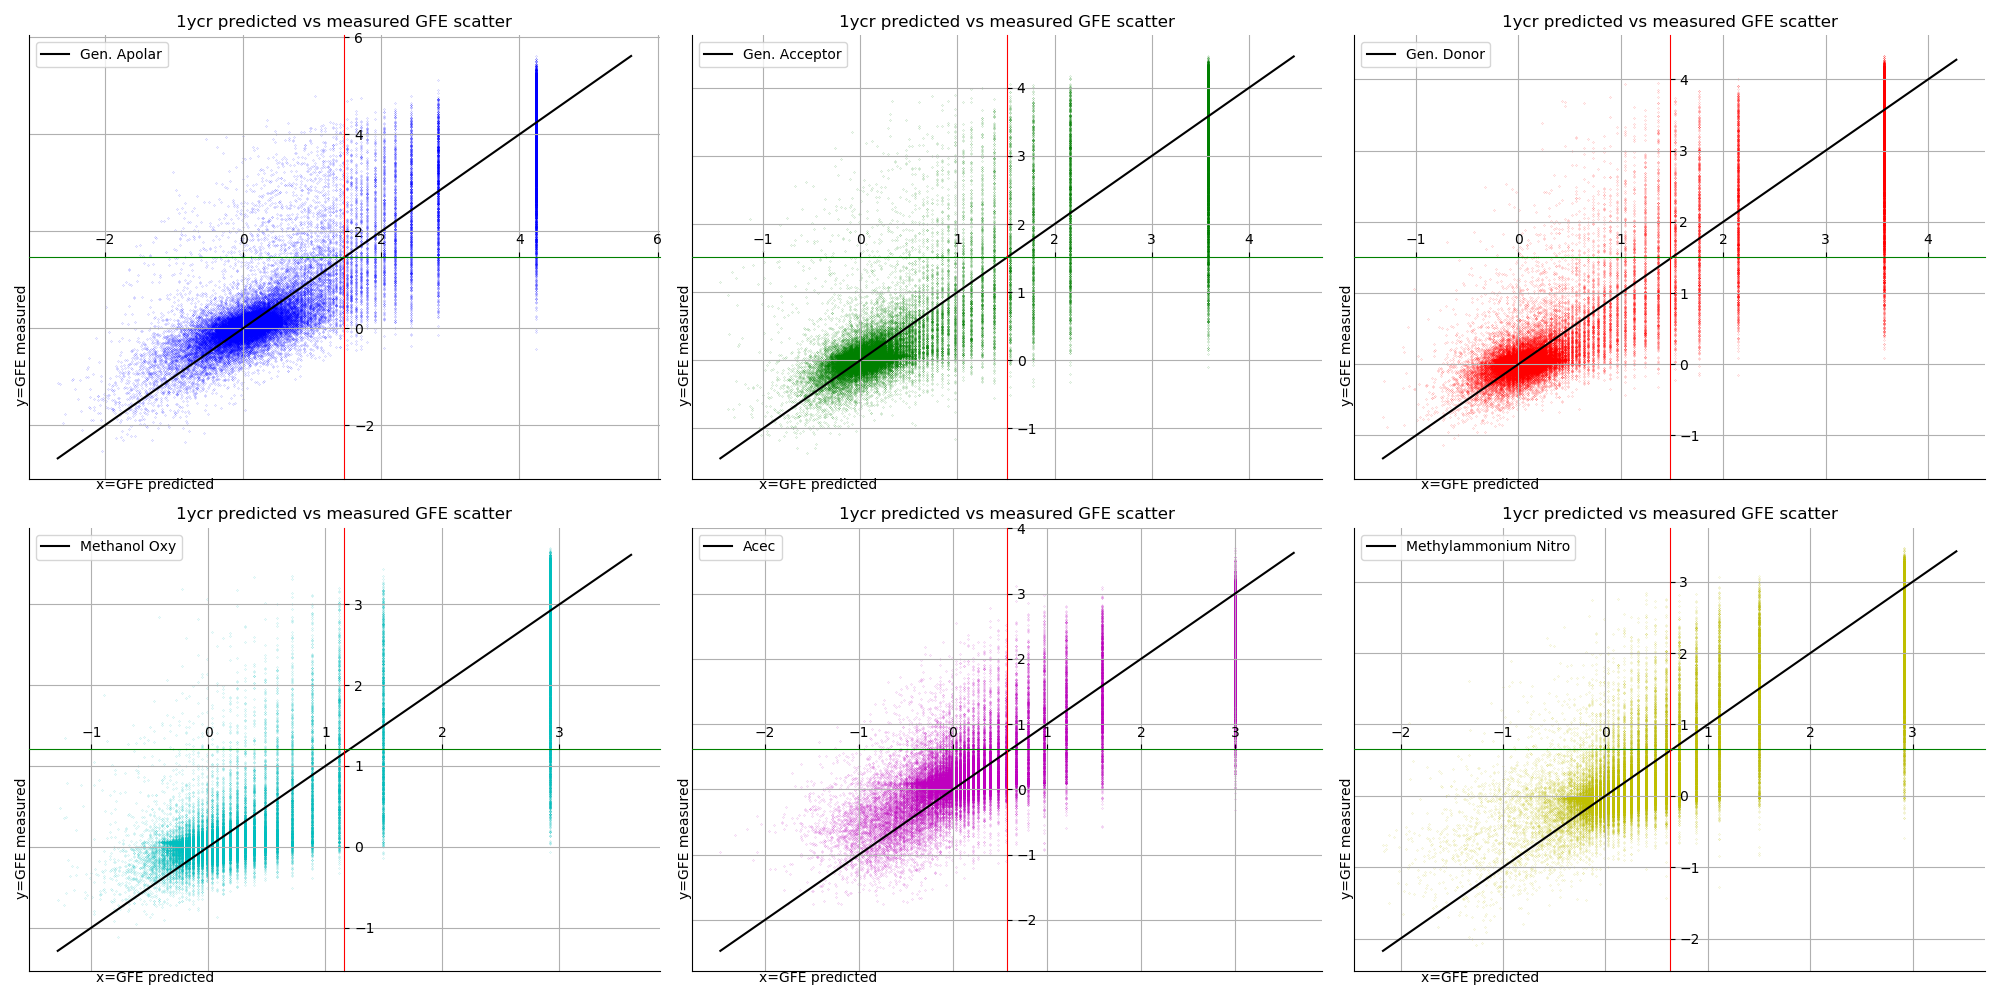
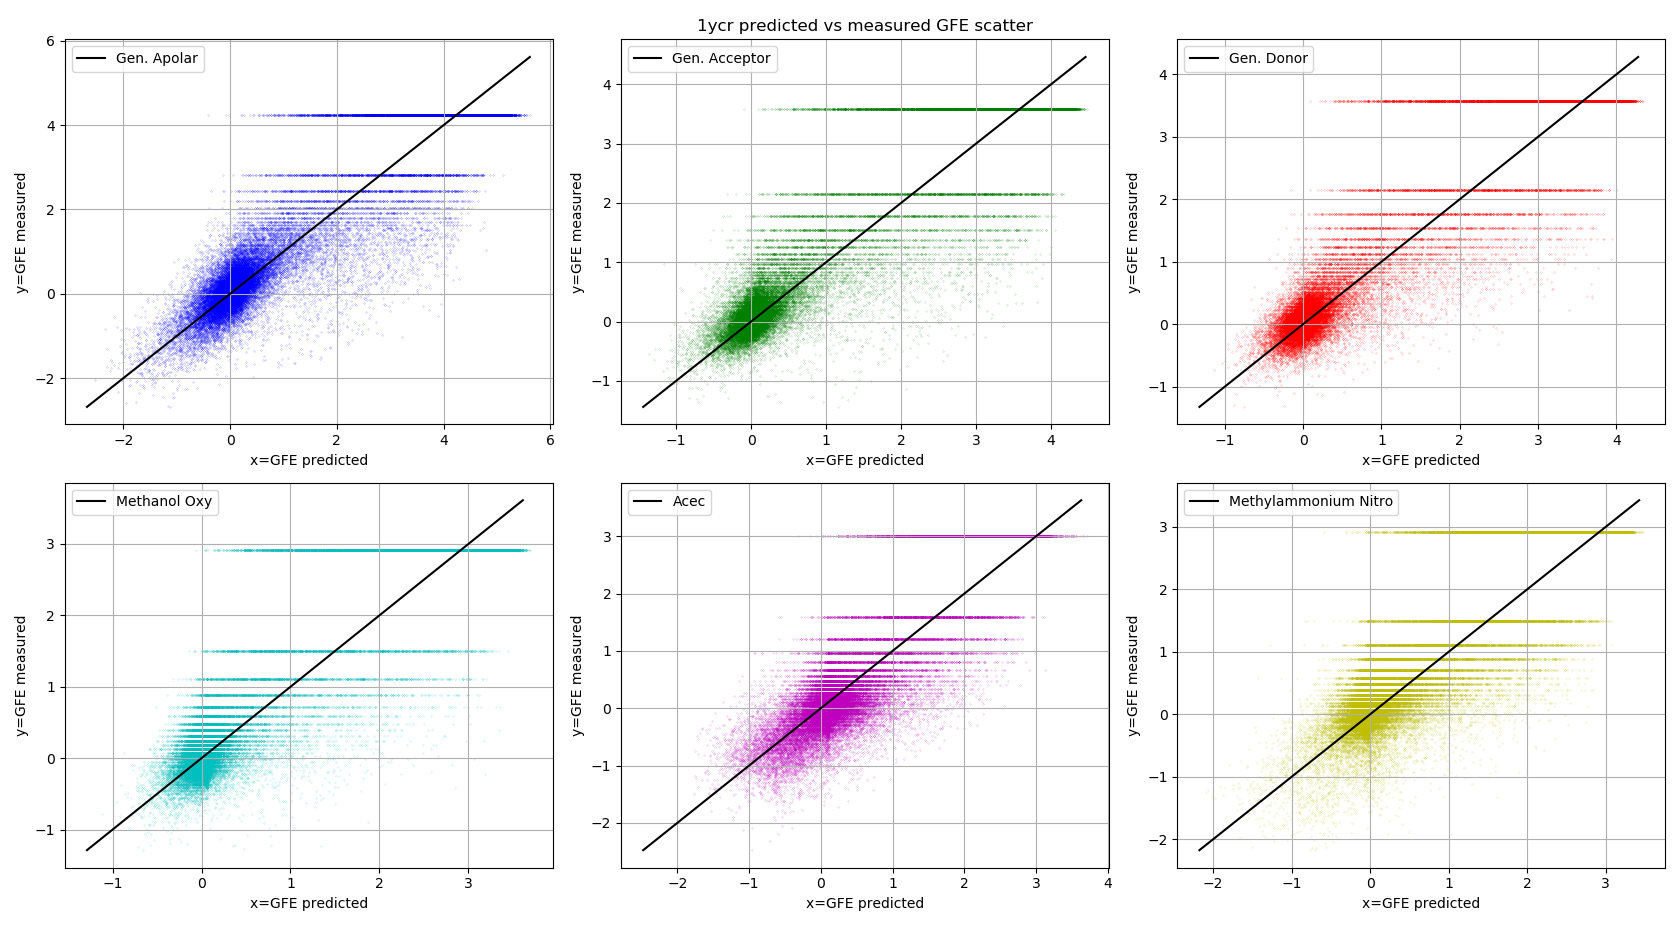
fixed scatter code and plots

diff --git a/visual/scatter.py b/visual/scatter.py
@@ -42,11 +42,14 @@ def scatter_plot(pdb_id):
 
     fig = plt.figure(figsize=(20,10))
     plot_fn= pdb_id +'_scatter.png'
-
-
+    plt.title(pdb_id+" predicted vs measured GFE scatter")
+  
+    plt.axis('off')
+    
     for i in range(1,len(path_list)+1):
-        _, _, gfe, _ = read_map(path_list[i-1])
         _, _, gfe_p, _ = read_map(pred_path_list[i-1])
+        _, _, gfe, _ = read_map(path_list[i-1])
+
         
         #print(gfe.shape)
         #print(gfe_p.shape)
@@ -55,38 +58,24 @@ def scatter_plot(pdb_id):
         #print(gfe_p)
         
 
-        x = gfe
-        y = gfe_p
+        x = gfe_p
+        y = gfe
 
         ax = fig.add_subplot(2, 3, i)
         
         colors = 'bgrcmy'
-
-        # Move right y-axis and top x-axis to center
-        ax.spines['right'].set_position('center')
-        ax.spines['top'].set_position('center')
-
-        # Eliminate upper and right axes
-        ax.spines['right'].set_color('red')
-        ax.spines['top'].set_color('green')
-
-        # Show ticks in the left and lower axes only
-        ax.xaxis.set_ticks_position('top')
-        ax.yaxis.set_ticks_position('right')
-        
-        ax.xaxis.set_label_coords(0.2, 0)
-        ax.yaxis.set_label_coords(0, 0.3)
         
         l_x = np.arange(np.minimum(x.min(), y.min()),np.maximum(x.max(), y.max()),0.1)
         #print(l_x, l_y)
         
-        plt.plot(l_x,l_x, color='black')
-        
+        ax.plot(l_x,l_x, color='black')
+
         frag = frag_names[i-1]
 
-        plt.grid()
+        
         plt.scatter(x, y, s=0.01, color=colors[i-1])
-        plt.title(pdb_id+" predicted vs measured GFE scatter")
+
+        plt.grid()
         plt.legend([frag], loc="best")
         plt.ylabel("y=GFE measured")
         plt.xlabel("x=GFE predicted")
@@ -95,6 +84,7 @@ def scatter_plot(pdb_id):
 
 
     fig.set_tight_layout(True)
+    
     #plt.show()
     fig.savefig('../figs/'+plot_fn)
 
